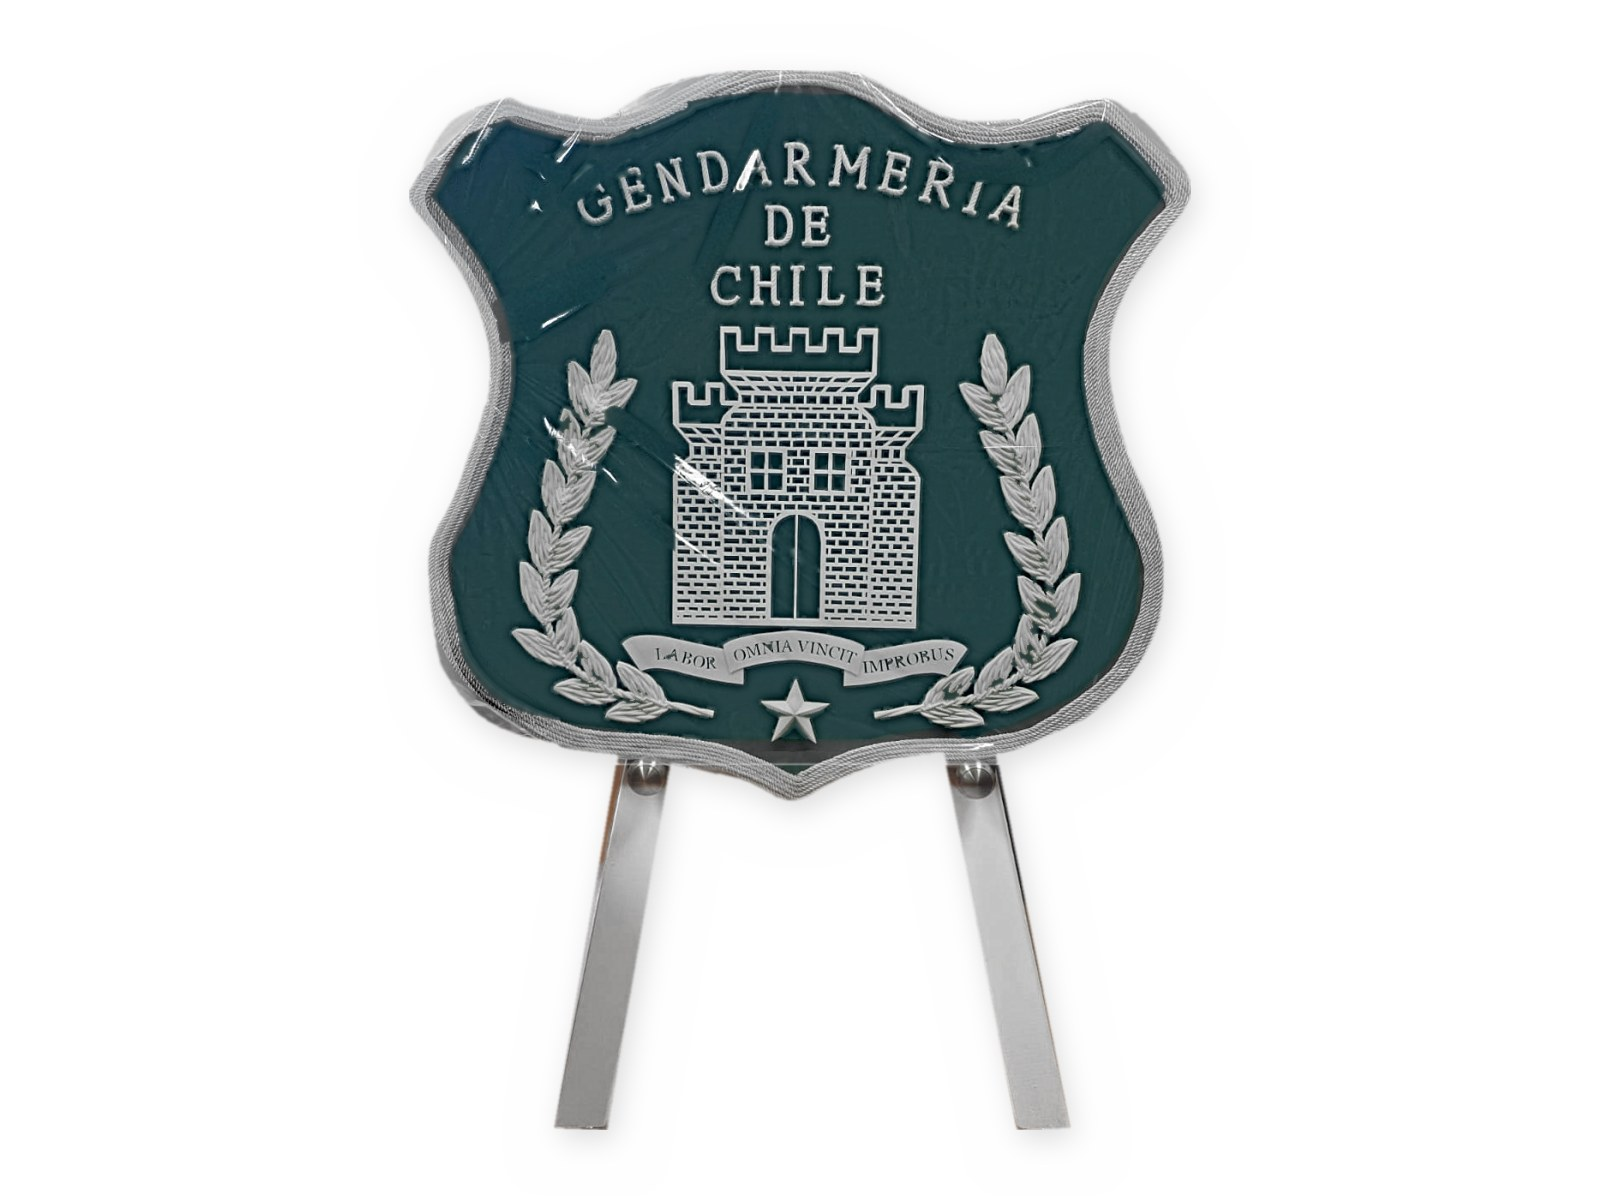
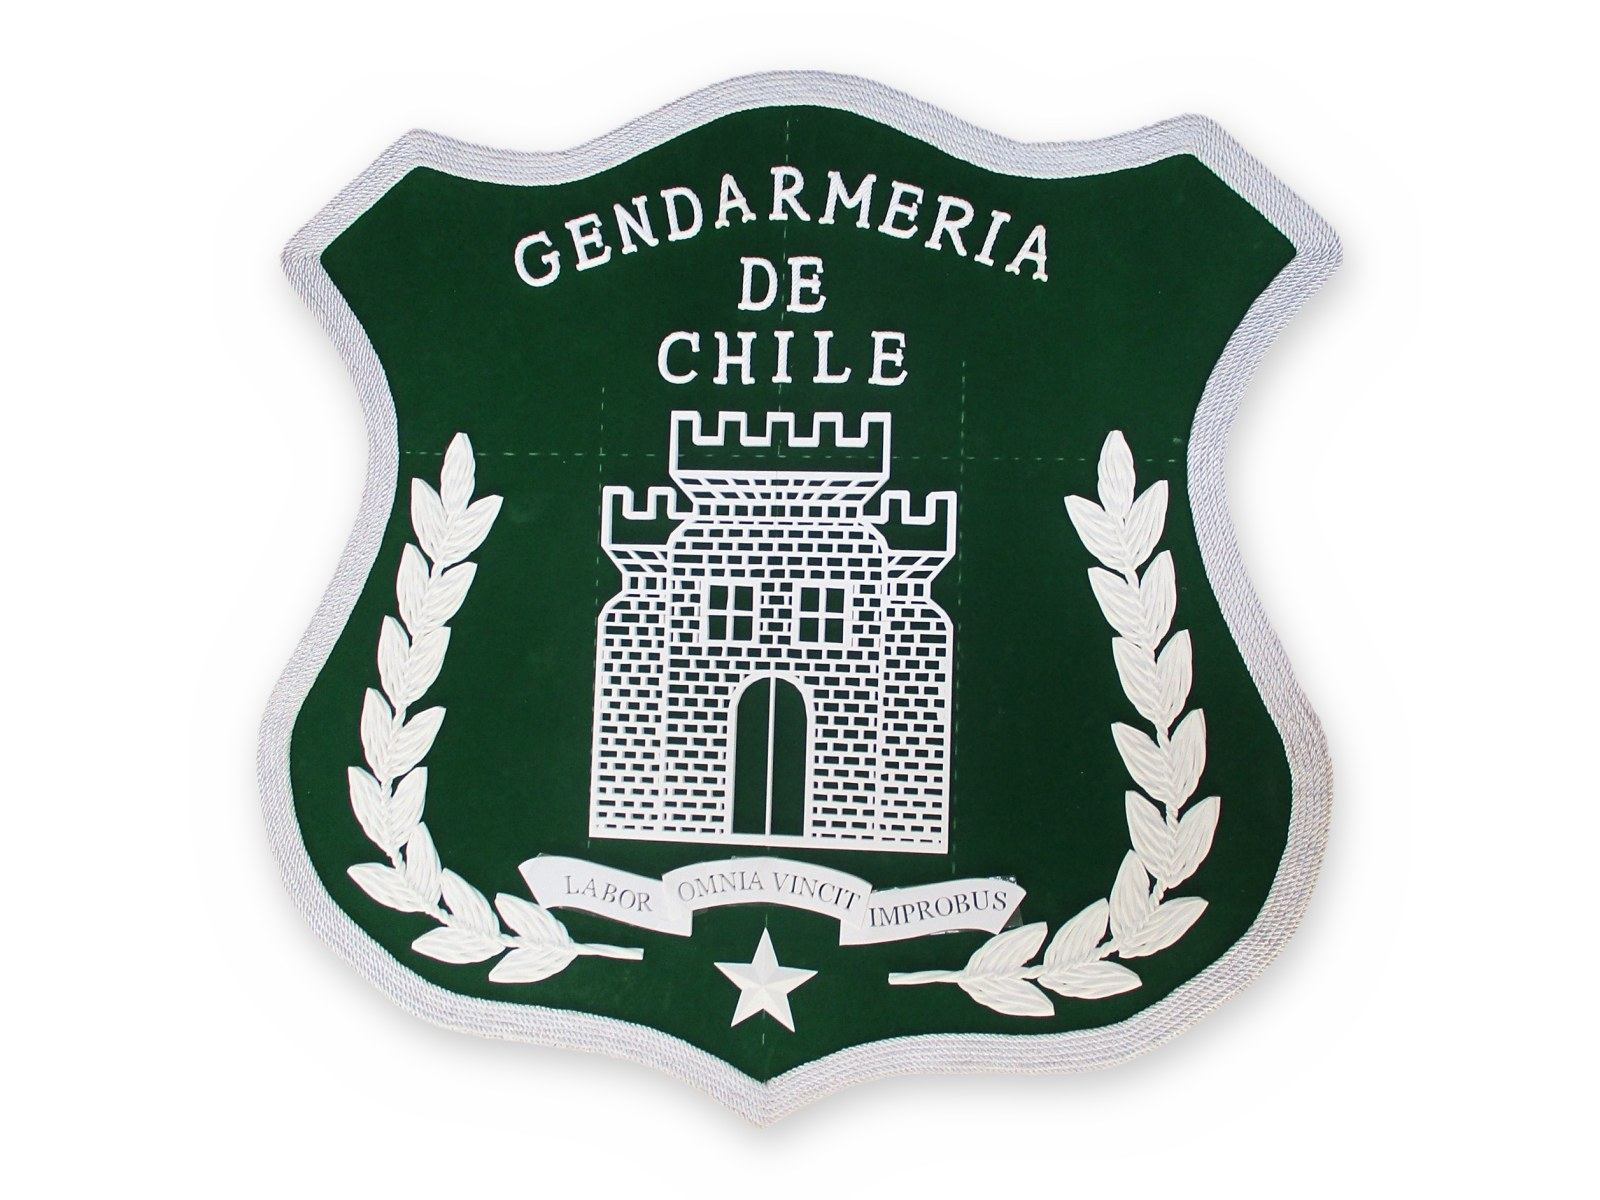
Escudo de Gendarmería: fotos nuevas sin plástico (pieza completa y detalle del laurel)
Claude-Session: https://claude.ai/code/session_015RzHifgko5fwmbfF1L46Ey

diff --git a/contenido/productos/escudos-institucionales.md b/contenido/productos/escudos-institucionales.md
@@ -7,6 +7,8 @@ etiqueta: Escudos
 resumen: El escudo o emblema de tu institución en relieve, impreso en 3D y montado para exhibir. Ideal para aniversarios, reconocimientos, despedidas y oficinas.
 imagenes:
   - /media/escudos-institucionales.jpg
+  - /media/escudo-gendarmeria.jpg
+  - /media/escudo-gendarmeria-detalle.jpg
 colores: []
 tipo_venta: Hecho a pedido
 compatibilidad: []
@@ -19,7 +21,7 @@ destacado: false
 orden: 3
 publicado: true
 ---
-Reproducimos el escudo o emblema de tu institución con impresión 3D: el emblema, las letras y los detalles quedan en relieve y la pieza se monta sobre una base para exhibirla en una oficina, un salón o una vitrina. En la foto, una pieza con base roja, cordón dorado y atril.
+Reproducimos el escudo o emblema de tu institución con impresión 3D: el emblema, las letras y los detalles quedan en relieve y la pieza se monta sobre una base para exhibirla en una oficina, un salón o una vitrina. En las fotos, dos trabajos entregados: el escudo del Ejército de Chile, con base roja, cordón dorado y atril, y el de Gendarmería de Chile, con fondo de terciopelo verde y cordón blanco.
 
 Es un regalo con presencia para aniversarios, ceremonias, reconocimientos, despedidas o la llegada de una nueva autoridad.
 

diff --git a/contenido/portafolio/escudo-gendarmeria.md b/contenido/portafolio/escudo-gendarmeria.md
@@ -3,5 +3,5 @@ titulo: Escudo institucional · Gendarmería de Chile
 categoria: Impresión 3D
 imagen: /media/escudo-gendarmeria.jpg
 orden: 0
-publicado: false
+publicado: true
 ---
